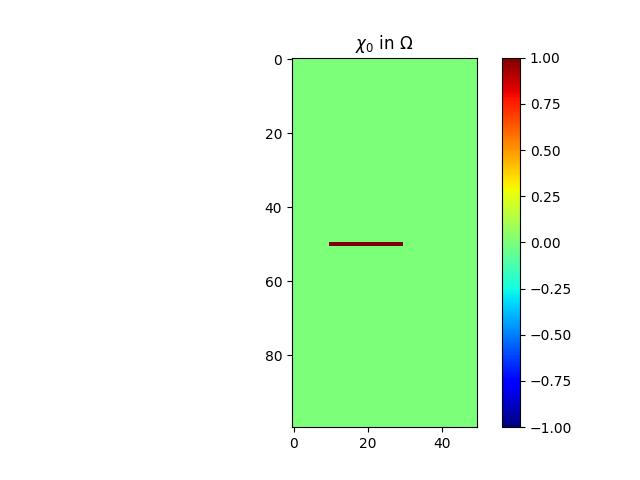
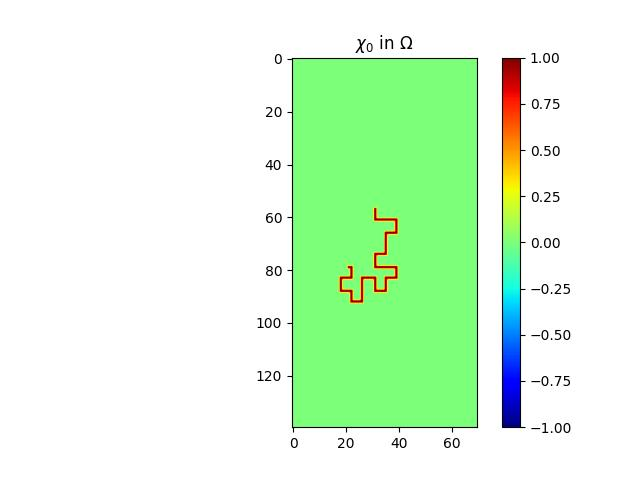
It works

diff --git a/frequency_plot.py b/frequency_plot.py
@@ -1,0 +1,135 @@
+# -*- coding: utf-8 -*-
+
+
+# Python packages
+import matplotlib.pyplot as plt
+import numpy as np
+import os
+from tqdm import tqdm
+
+# MRG packages
+import _env
+import preprocessing
+import processing
+import postprocessing
+from utils import compute_projected, compute_gradient_descent2, compute_gradient_descent
+#import solutions
+from demo_control_polycopie2023 import your_optimization_procedure
+
+
+
+
+# ----------------------------------------------------------------------
+# -- Fell free to modify the function call in this cell.
+# ----------------------------------------------------------------------
+# -- set parameters of the geometry
+N = 30 # number of points along x-axis
+M = 2 * N  # number of points along y-axis
+level = 1 # level of the fractal
+spacestep = 1.0 / N  # mesh size
+
+
+starting = []
+final = []
+frequencies = [1, 2, 3, 4]
+
+for f in tqdm(frequencies) : 
+    # -- set parameters of the partial differential equation
+    wavenumber = 2*np.pi*f  # wavenumber
+    epsilon1 = 10**(-5)
+    epsilon2 = 10**(-1)
+    beta = 0.1
+
+    # ----------------------------------------------------------------------
+    # -- Do not modify this cell, these are the values that you will be assessed against.
+    # ----------------------------------------------------------------------
+    # --- set coefficients of the partial differential equation
+    beta_pde, alpha_pde, alpha_dir, beta_neu, alpha_rob, beta_rob = preprocessing._set_coefficients_of_pde(M, N)
+
+    # -- set right hand sides of the partial differential equation
+    f, f_dir, f_neu, f_rob = preprocessing._set_rhs_of_pde(M, N)
+
+    # -- set geometry of domain
+    domain_omega, x, y, _, _ = preprocessing._set_geometry_of_domain(M, N, level)
+
+
+
+    # ----------------------------------------------------------------------
+    # -- Fell free to modify the function call in this cell.
+    # ----------------------------------------------------------------------
+    # -- define boundary conditions
+    # planar wave defined on top
+    f_dir[:, :] = 0.0
+    f_dir[0, 0:N] = 1.0
+    # spherical wave defined on top
+    #f_dir[:, :] = 0.0
+    #f_dir[0, int(N/2)] = 10.0
+
+    # -- initialize
+    alpha_rob[:, :] = - wavenumber * 1j
+
+    # -- define material density matrix
+    chi = preprocessing._set_chi(M, N, x, y)
+    chi = preprocessing.set2zero(chi, domain_omega)
+
+    # -- define absorbing material
+    Alpha = 10.0 - 10.0 * 1j
+    # Alpha = 0 
+    # -- this is the function you have written during your project
+    #import compute_alpha
+    #Alpha = compute_alpha.compute_alpha(...)
+    alpha_rob = Alpha * chi
+
+    # -- set parameters for optimization
+    S = 0  # surface of the fractal
+    for i in range(0, M):
+        for j in range(0, N):
+            if domain_omega[i, j] == _env.NODE_ROBIN:
+                S += 1
+    V_0 = 1  # initial volume of the domain
+    V_obj = np.sum(np.sum(chi)) / S  # constraint on the density
+    V_obj = 0.5
+
+    mu = 5  # initial gradient step
+
+    # ----------------------------------------------------------------------
+    # -- Do not modify this cell, these are the values that you will be assessed against.
+    # ----------------------------------------------------------------------
+    # -- compute finite difference solution
+    u = processing.solve_helmholtz(domain_omega, spacestep, wavenumber, f, f_dir, f_neu, f_rob,
+                        beta_pde, alpha_pde, alpha_dir, beta_neu, beta_rob, alpha_rob)
+    chi0 = chi.copy()
+    u0 = u.copy()
+
+    # ----------------------------------------------------------------------
+    # -- Fell free to modify the function call in this cell.
+    # ----------------------------------------------------------------------
+    # -- compute optimization
+    energy = np.zeros((100+1, 1), dtype=np.float64)
+    ### WAVENUMBER  =  OMEGA
+    chi, energy, u, grad = your_optimization_procedure(domain_omega, spacestep, wavenumber, f, f_dir, f_neu, f_rob,
+                            beta_pde, alpha_pde, alpha_dir, beta_neu, beta_rob, alpha_rob,
+                            Alpha, mu, chi, V_obj)
+    # chi, energy, u, grad = solutions.optimization_procedure(domain_omega, spacestep, wavenumber, f, f_dir, f_neu, f_rob,
+    #                    beta_pde, alpha_pde, alpha_dir, beta_neu, beta_rob, alpha_rob,
+    #                    Alpha, mu, chi, V_obj, mu1, V_0)
+    # --- en of optimization
+
+    chin = chi.copy()
+    un = u.copy()
+
+    # -- plot chi, u, and energy
+    # postprocessing._plot_uncontroled_solution(u0, chi0)
+    # postprocessing._plot_controled_solution(un, chin)
+    # err = un - u0
+    # postprocessing._plot_error(err)
+    # postprocessing._plot_energy_history(energy)
+
+    print(energy)
+    starting.append(energy[0])
+    final.append(energy[-1])
+
+
+plt.plot(frequencies, starting, label = "starting energy")
+plt.show()
+

diff --git a/demo_control_polycopie2023.py b/demo_control_polycopie2023.py
@@ -31,27 +31,30 @@ def your_optimization_procedure(domain_omega, spacestep, omega, f, f_dir, f_neu,
 
     k = 0
     (M, N) = np.shape(domain_omega)
-    numb_iter = 4
+    numb_iter = 20
     energy = np.zeros((numb_iter, 1), dtype=np.float64)
-
+    mu = start_mu
     for k in tqdm(range(numb_iter)):
-        # print('---- iteration number = ', k)
+        if mu < 10**(-5):
+            break
         u = processing.solve_helmholtz(domain_omega, spacestep, omega, f, f_dir, f_neu, f_rob,
-                                       beta_pde, alpha_pde, alpha_dir, beta_neu, beta_rob, alpha_rob)
+                                    beta_pde, alpha_pde, alpha_dir, beta_neu, beta_rob, alpha_rob)
         p = processing.solve_helmholtz(domain_omega, spacestep, omega, -2 * np.conj(u), f_dir, f_neu, f_rob,
-                                       beta_pde, alpha_pde, alpha_dir, beta_neu, beta_rob, alpha_rob)
+                                    beta_pde, alpha_pde, alpha_dir, beta_neu, beta_rob, alpha_rob)
         ene = your_compute_objective_function(domain_omega, u, spacestep)
         energy[k] = ene
         grad =  - np.real(Alpha * u * p)
 
-        mu = start_mu
+        # mu = start_mu
         while ene >= energy[k] and mu > 10 **(-5):
             new_chi = chi.copy()
             new_chi  = compute_gradient_descent(new_chi, grad, domain_omega, mu)
             new_chi = compute_projected(new_chi, domain_omega, V_obj)
+            new_chi [new_chi>0.5] = 1
+            new_chi [new_chi<=0.5] = 0
             alpha_rob= new_chi * Alpha # update alpha_rob
             u = processing.solve_helmholtz(domain_omega, spacestep, omega, f, f_dir, f_neu, f_rob,
-                                             beta_pde, alpha_pde, alpha_dir, beta_neu, beta_rob, alpha_rob)
+                                            beta_pde, alpha_pde, alpha_dir, beta_neu, beta_rob, alpha_rob)
             new_ene = your_compute_objective_function(domain_omega, u, spacestep)
     
             if new_ene < ene:
@@ -64,12 +67,11 @@ def your_optimization_procedure(domain_omega, spacestep, omega, f, f_dir, f_neu,
             ene = new_ene
 
         chi = new_chi.copy()
-       
+        
 
-    print('end. computing solution of Helmholtz problem, i.e., u')
+    print("Number of steps: ", k)
 
-
-    return chi, energy, u, grad
+    return chi, energy[:k], u, grad
 
 
 def your_compute_objective_function(domain_omega, u, spacestep):
@@ -98,9 +100,9 @@ if __name__ == '__main__':
     # -- Fell free to modify the function call in this cell.
     # ----------------------------------------------------------------------
     # -- set parameters of the geometry
-    N = 50 # number of points along x-axis
+    N = 70 # number of points along x-axis
     M = 2 * N  # number of points along y-axis
-    level = 0   # level of the fractal
+    level = 2   # level of the fractal
     spacestep = 1.0 / N  # mesh size
 
     # -- set parameters of the partial differential equation
@@ -195,5 +197,4 @@ if __name__ == '__main__':
     postprocessing._plot_error(err)
     postprocessing._plot_energy_history(energy)
 
-    print("Number of steps: ", len(energy) - 1)
     print('End.')
